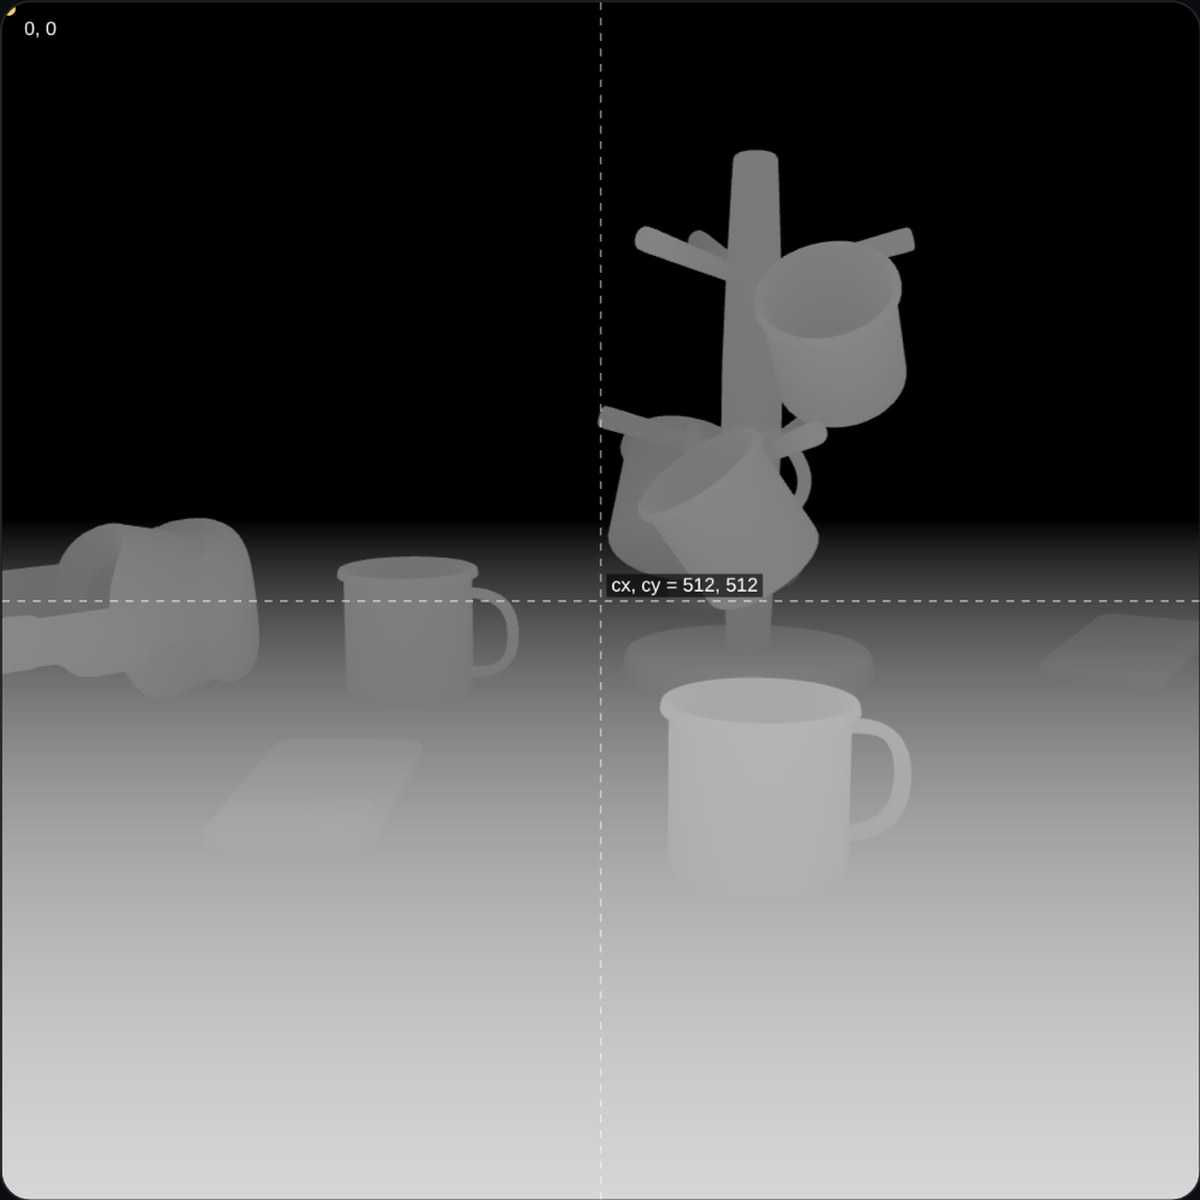
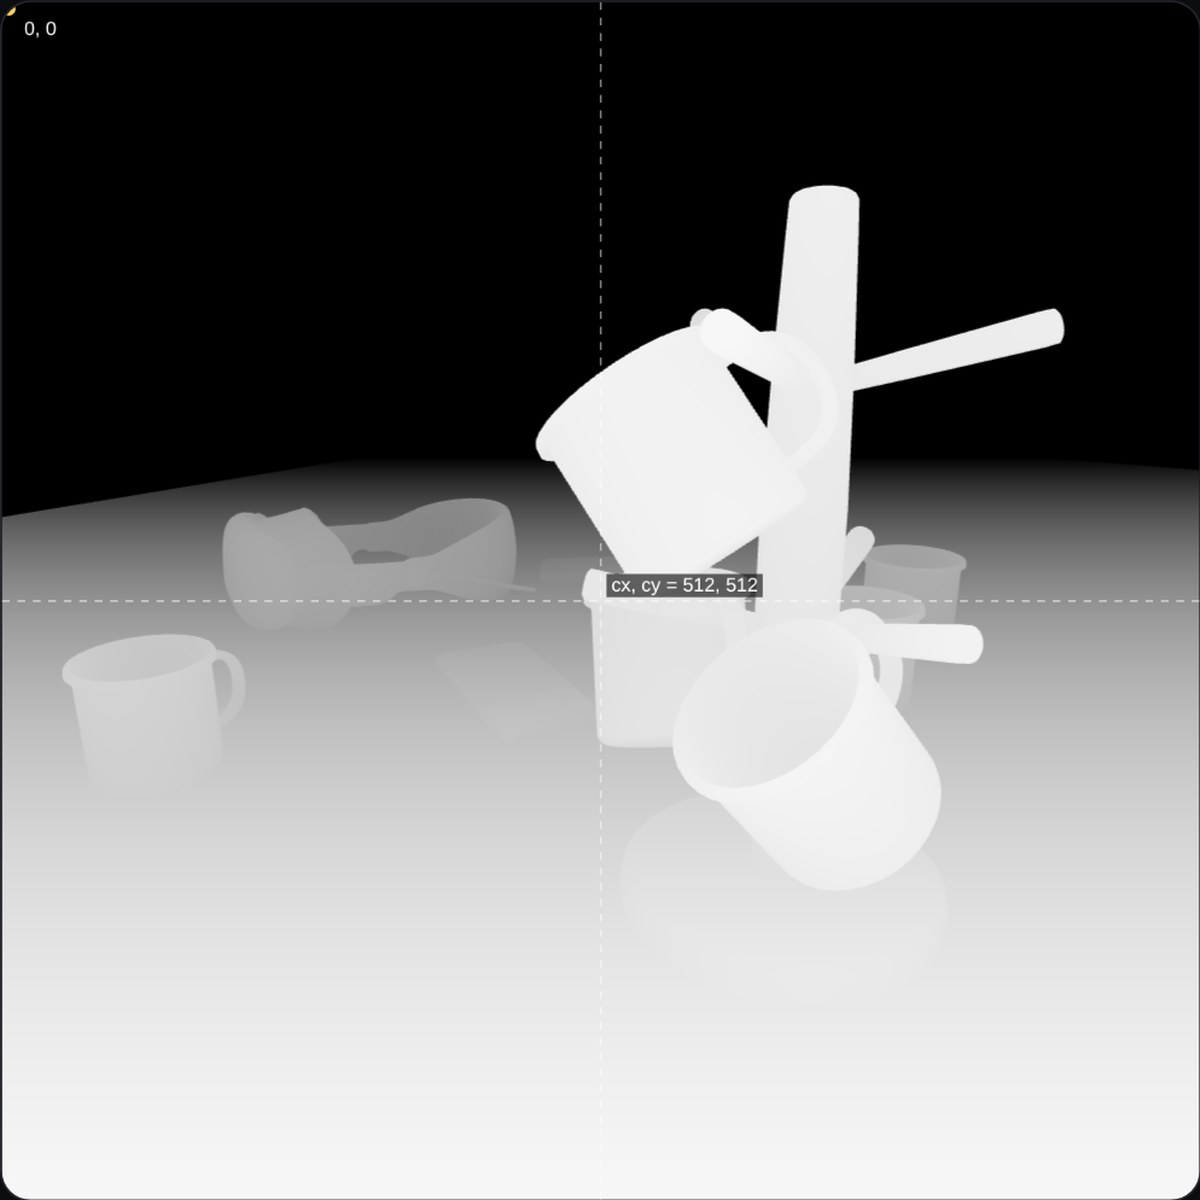
Default view seed 9, camera 6; new card images
Claude-Session: https://claude.ai/code/session_01BZ9VTa7dHcspoMet4PMtry

diff --git a/index.html b/index.html
@@ -262,7 +262,7 @@ footer a{text-decoration:none}footer a:hover{color:var(--text)}
 <div class="viewer">
 <div class="bar" id="bar">
 <div class="grp"><span class="glab">Renderer</span><div class="segs" id="rend" role="group" aria-label="Renderer"></div></div>
-<div class="grp"><span class="glab">Camera</span><div class="step" role="group" aria-label="Camera view"><button type="button" id="vPrev" aria-label="Previous view">‹</button><output id="v_view">8 / 50</output><button type="button" id="vNext" aria-label="Next view">›</button></div></div>
+<div class="grp"><span class="glab">Camera</span><div class="step" role="group" aria-label="Camera view"><button type="button" id="vPrev" aria-label="Previous view">‹</button><output id="v_view">6 / 50</output><button type="button" id="vNext" aria-label="Next view">›</button></div></div>
 <div class="grp"><span class="glab">Output map <em>· pick one of 5</em></span><div class="segs" id="modes" role="group" aria-label="Output map"></div><select id="modeSel" class="sel" aria-label="Output map"></select></div>
 </div>
 <div id="camBox" tabindex="0" aria-label="Rendered camera view. Use the left and right arrow keys or swipe to change view.">
@@ -277,9 +277,9 @@ footer a{text-decoration:none}footer a:hover{color:var(--text)}
 <aside class="panel">
 <div class="card"><h2>Scene <span class="mono">1024 × 1024 px</span></h2>
 <div class="ctl">
-<div class="row"><span class="lab">Scene seed</span><div class="step"><button type="button" id="sPrev" aria-label="Previous scene">−</button><output id="v_seed">3</output><button type="button" id="sNext" aria-label="Next scene">+</button></div><button type="button" class="btn" id="shuffle">Shuffle</button></div>
-<input type="range" id="seed" min="0" max="19" step="1" value="3" hidden>
-<div class="rng"><label for="view">Camera view <output id="v_view2">8 / 50</output></label><input type="range" id="view" min="1" max="50" step="1" value="8"></div>
+<div class="row"><span class="lab">Scene seed</span><div class="step"><button type="button" id="sPrev" aria-label="Previous scene">−</button><output id="v_seed">9</output><button type="button" id="sNext" aria-label="Next scene">+</button></div><button type="button" class="btn" id="shuffle">Shuffle</button></div>
+<input type="range" id="seed" min="0" max="19" step="1" value="9" hidden>
+<div class="rng"><label for="view">Camera view <output id="v_view2">6 / 50</output></label><input type="range" id="view" min="1" max="50" step="1" value="6"></div>
 <div class="rng"><label for="ev">Exposure <output id="v_ev"></output></label><input type="range" id="ev" min="-2" max="2" step="0.1" value="0"></div>
 </div></div>
 <details class="card" id="ovCard" open><summary>Scene overview <span class="mono">drag to orbit</span></summary><canvas id="cMain"></canvas></details>
